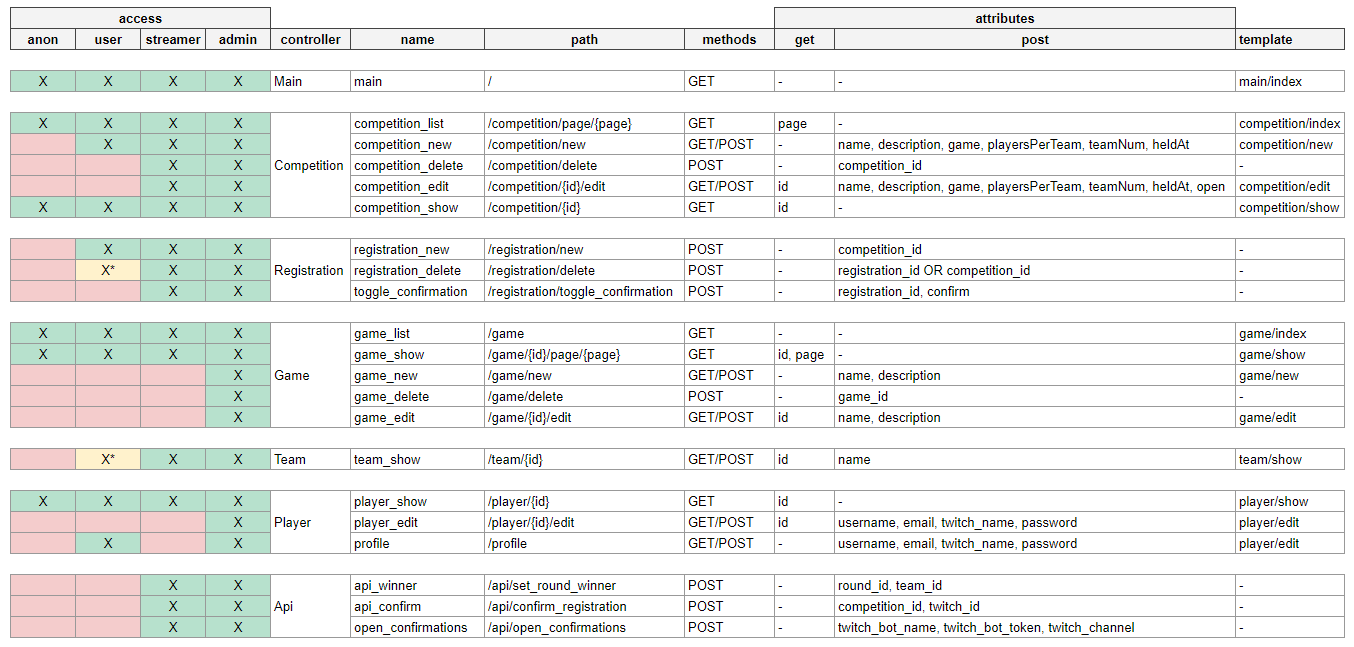
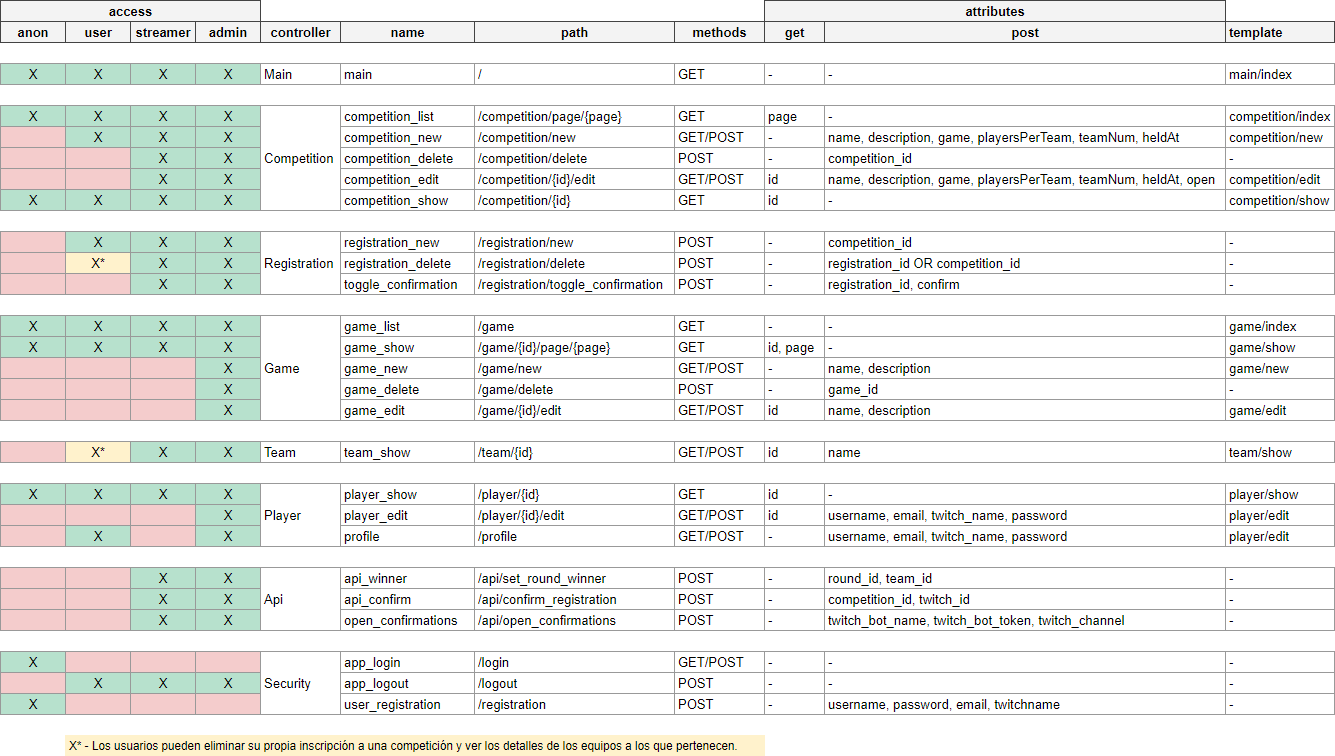
Finished src in readme.md

diff --git a/README.MD b/README.MD
@@ -117,7 +117,7 @@ El servidor que aloje la aplicación debe configurarse para que apunte a la carp
 ### Diagrama lógico
 ![Diagrama lógico de base de datos](https://raw.githubusercontent.com/bgonp/round-breaker/master/docs/img/DB_logical_model.png)
 
-## Descripción
+## Descripción de entidades
 Definimos las entidades que forman el proyecto y sus relaciones. Hemos definido una clase abstracta `Base` de la que heredan el resto de entidades. Esta clase contiene los atributos que son comunes a todas las demás clases (`id`, `createdAt`, `updatedAt`) y un método `equals` para comparar instancias. Además tiene un método que, siguiendo el lifecycle de doctrine _PreUpdate_, actualiza en cada escritura el campo `updatedAt` con la hora y fechas actuales. Con esto hemos conseguido evitar la repetición de código y despejar mucho las entidades. Para el correcto mapeo del ORM hemos tenido que etiquetarla como `MappedSuperclass` para que lo interpretase correctamente.
 
 #### Player
@@ -202,6 +202,10 @@ Hemos omitido en esta tabla las páginas de recuperación de contraseña y de in
 | NO | streamer | Api | api_winner | Indicar el ganador de una ronda | POST |
 | NO | streamer | Api | api_confirm | Confirmar una inscripción | POST |
 | NO | streamer | Api | open_confirmations | Abrir confirmaciones (inicia la escucha de Twitch) | POST |
+|  |  |  |  |  |  |
+| NO | public | Security | app_login | Inciar sesión | GET/POST |
+| NO | player | Security | app_logout | Cerrar sesión | POST |
+| NO | public | Security | user_registration | Registro de usuario | POST |
 
 En [**este enlace**](https://raw.githubusercontent.com/bgonp/round-breaker/master/docs/img/Endpoints.png) se puede ver una versión más extensa de esta tabla, con las rutas completas, los parámetros que se pasan y la plantilla que renderiza la vista.
 
@@ -237,7 +241,7 @@ Contiene las migraciones de Doctrine de la base de datos. Las migraciones guarda
 Se pueden ejecutar en orden en una base de datos vacía para tener todas las entidades requeridas por la aplicación.
 
 ### Entity
-Clases con las que crear objetos que representan cada uno de los registros de nuestras tablas principales de base de datos con sus relaciones entre ellas. Es importante que exista una fuerte sincronización entre los esquemas de base de datos y estas entidades, para que Doctrine pueda mapearlo todo correctamente. Las entidades principales con las que trabaja nuestra aplicación son: `Game`, `Competition`, `Player`, `Registration`, `Team` y `Round`.
+Clases con las que crear objetos que representan cada uno de los registros de nuestras tablas principales de base de datos con sus relaciones entre ellas. Es importante que exista una fuerte sincronización entre los esquemas de base de datos y estas entidades, para que Doctrine pueda mapearlo todo correctamente. Las entidades principales con las que trabaja nuestra aplicación son: `Game`, `Competition`, `Player`, `Registration`, `Team` y `Round`. El detalle de cada entidad está explicado más extensamente en la sección [Descripción de entidades](#descripción-de-entidades). 
 
 Al trabajar con entidades generadas con los datos de base de datos en lugar de directamente con la base de datos se consigue disminuir la necesidad de consultas y facilitar el manejo de información.
 
@@ -255,49 +259,54 @@ Son clases que contienen métodos con la lógica de funcionalidades concretas de
 - `RoundService`: Acciones sobre la entidad `Round`. Contiene la lógica para generar las rondas dada una competición con sus equipos y el hecho de marcar o desmarcar ganadores de rondas, actualizando resultados y siguientes rondas.
 - `PlayerService`: Contiene únicamente un método para editar los datos de un jugador, ya que es una acción que se repite en varios controladores.
 
+El inyector de dependencias de Symfony actúa al instanciar los servicios, por lo que hemos añadido constructores con las dependencias necesarias para efectuar la lógica en cada caso.
+
 
 ### Controller
+Contiene todos los controladores encargados de atender las peticiones web. Cada controlador tiene una ruta asignada a través del sistema de Router de symfony (nosotros hemos usado anotaciones, lo consideramos más claro que la configuración a través de yaml o xml) y devuelve una respuesta, ya sea con un `JsonResponse` o renderizando un template concreto para devolver un `Response`.
 
-Contiene todos los controladores de Symfony, los cuales dan lógica a toda la aplicación. Su función es dar instrucciones a
-las rutas de la página web y devolver datos a los modelos twig. Escritos en PHP.
+A cada controlador se le indica el nombre y dirección de la ruta a la que atender, además de los métodos aceptados. El sistema de inyección de dependencias de Symfony actúa sobre cada método de los controladores (al contrario de lo que pasa en servicios), por lo que es fácil usar los repositorios y servicios necesarios en cada caso.
+
+Para la gestión de mensajes de error o éxito hemos usado el método `addFlash` de `AbstractController` (del que heredan todos los controladores), que almacena en session el mensaje etiquetado y lo elimina una vez que es consultado por la plantilla para mostrarlo, asegurando que se muestre solo una vez.
+
+Se puede ver una descripción completa de los controladores con sus características en la sección [Páginas](#paginas).
 
 ### ArgumentResolver
+Como herramienta para hacer más ágil el manejo de entidades en los controladores hemos creado unas clases en este directorio que, al implementar `ParamConverterInterface`, pueden interceptar las llamadas a los controladores pudiendo diseñar así nuestras propias reglas de inyección de dependencias.
 
-Contiene clases que implementan la interfaz ParamConverter.
-Nos permite resolver entidades mediante IDs introducidos como parámetros en las rutas de la página.
-Su función es facilitar la resolución de entidades en los controladores.
+Hemos utilizado estas clases para que, cada vez que un controlador indique una entidad en sus parámetros, si la petición tiene un atributo que contenga el nombre de esa entidad seguido de `_id` (por ejemplo `competition_id`, `player_id`...) entre en acción nuestro resolver y se encargue de buscar la entidad correspondiente a través de su repositorio e inyectarla al controlador que lo haya pedido.
+
+De esta forma hemos podido ahorrarnos mucho código repetido y agilizar el desarrollo de los controladores, evitando en muchos casos las consultas a los repositorios en ellos.
 
 ### Security
-
-Contiene el autenticador de inicio de sesión de la página web.
-Se encarga de manejar el formulario de login y resolver la adquisición del usuario logeado.
-La clase implementa la interfaz de autenticación de Symfony.
+Contiene la clase encargada de la lógica de validar credenciales de usuario y autenticación y efectuar las acciones necesarias en caso de inicio de sesión correcto o incorrecto. Esta clase intercepta las peticiones a la ruta `app_login` de `SecurityController` para realizar las operaciones antes de entrar en juego este controlador. Es aquí, en `SecurityController` donde comprobamos si se ha realizado la autenticación correctamente y manejamos la redirección con o sin mensaje de error a donde proceda.
 
 ### DataFixtures
+Contiene las clases encargadas de cargar los datos de prueba en la base de datos. Existe una clase Fixture para cada entidad, excepto en el caso de `BracketFixtures` que hace uso del servicio correspondiente para generar equipos y rondas de una competición por lo que genera ambos en un solo fichero.
 
-Contiene clases Fixture de Doctrine, las cuales permiten rellenar una base de datos vacía con datos de prueba.
-Cada clase contiene métodos que rellenan las tablas de la forma programada.
-Su función es crear una base de datos con información realista con gran cantidad de entidades, 
-imprescindible para probar la funcionalidad de la página.
+Para generar direcciones de correo y nombres de usuario aleatorios y únicos hemos hecho uso de la librería [`fzaninotto/Faker`](https://github.com/fzaninotto/Faker).
+
+Al haber entidades que tienen relaciones con otras entidades es importante el orden en el que ejecutar estas fixtures para evitar errores de inconsistencia. Es por ello que algunas de estas clases implementan la interfaz `DependentFixtureInterface` que nos permite definir (implementando el método `getDependencies` de esta interfaz) las fixtures que deben haberse ejecutado antes de esta.
+
+Al igual que en los servicios, las dependencias necesarias para la ejecución de estos métodos se inyectan en el constructor y se guardan como propiedades de objeto para hacer uso de ellas.
+
+Esta funcionalidad no está disponible si el entorno del proyecto está configurado domo producción.
 
 ### Exception
-
-Excepciones personalizadas de Symfony, nos permiten dar mensajes de error precisos a nuestros métodos en caso de fallo.
-Evitan el uso de mensajes de excepción genéricos.
+Hemos creado varias excepciones propias que recogen errores que pueden ocurrir durante la ejecución de nuestra aplicación. Estas excepciones pueden ser capturadas por los controladores para mostrar su mensaje a través de `addFlash` si procede.
 
 ### TwigExtension
+Hemos definido extensiones accesibles desde los templates de twig para facilitar su uso en el diseño de plantillas.
 
-Extensiones a la funcionalidad de archivos twig.
-Contienen métodos utilizados en modelos, disminuyen la lógica incluida en ellos.
-Sirven para mantener las vistas con la menor programación posible.
+Estas funcionalidades son:
+- `DateTimeExtension`: Proporciona funcionalidades para formatear objetos DateTime a la forma correcta para pasarlos a inputs de tipo datetime.
+- `GetTeamsNumberExtension`: Agiliza una operación común que hay que realizar al mostrar información sobre competiciones a través de la función `getTeamsNumber`.
+- `CompetitionsCountExtension`: Crea una variable global con el número de competiciones existente en base de datos accesible desde cualquier template en cualquier momento. Usado para poner en el `header` un mensaje `¡Más de X torneos organizados!`.
 
 ### Form
-
-Contienen tipos de formularios personalizados creados mediante Symfony.
-Implementan la interfaz AbstractType, la cual incluye métodos para crear formularios html en PHP.
+Contiene las clases encargadas de generar los formularios de cambio de contraseña y petición de cambio de contraseña gestionados por el bundle `SymfonyCastsResetPasswordBundle`.
 
 ## templates
-
 Modelos twig que reciben datos de los controladores y proporcionan una vista a la aplicación.
 Cada ruta tiene su propia vista, la cual renderiza los datos adecuadamente.
 El uso de archivos twig nos permite enseñar y esconder código html de forma inteligente, 
